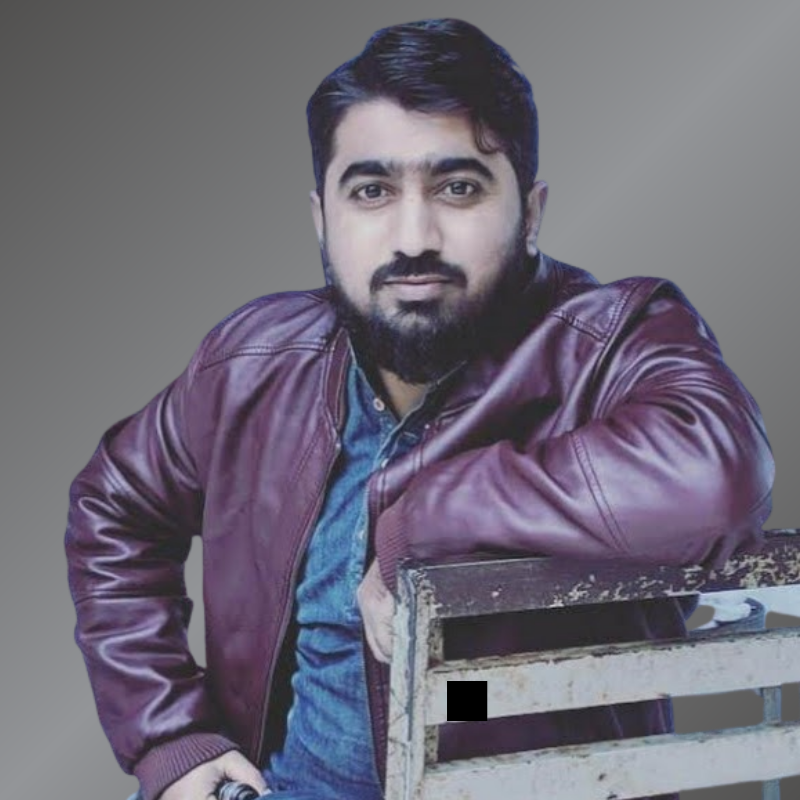
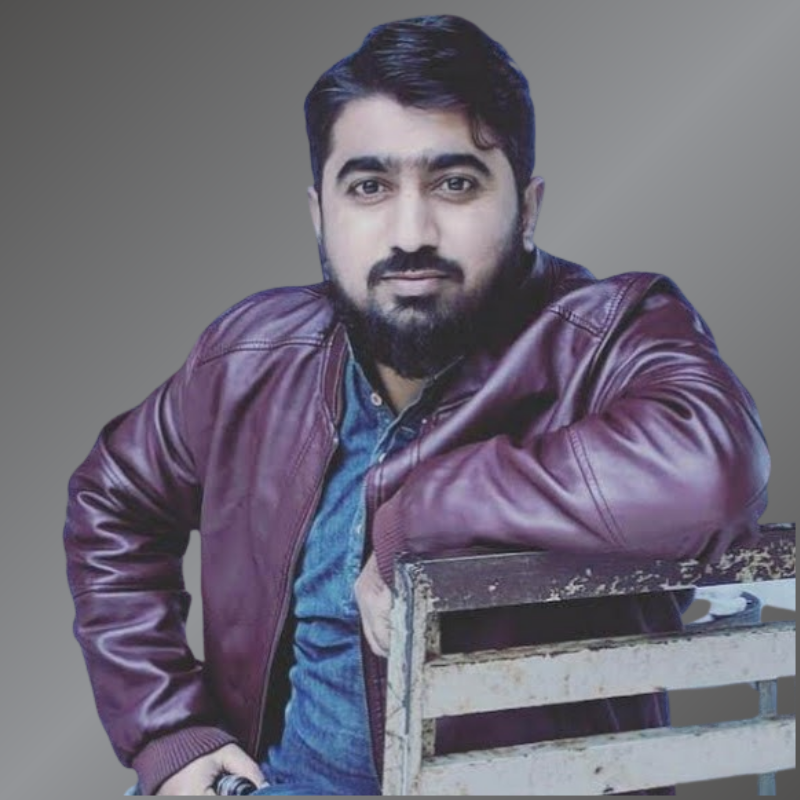
First commit

Changed region(s): [[0.0625, 0.0, 1.0, 1.0], [0.2188, 0.6562, 0.25, 0.7188], [0.25, 0.625, 0.2812, 0.6562]]

diff --git a/index.html b/index.html
@@ -353,7 +353,7 @@
 
           <div class="col-lg-4 col-md-6" data-aos="fade-up" data-aos-delay="300">
             <div class="member">
-              <div class="pic"><img src="assets/img/team/team-3.jpg" class="img-fluid" alt=""></div>
+              <div class="pic"><img src="assets/img/team/team-3.png" class="img-fluid" alt="Muhammad Javed Rafique"></div>
               <div class="member-info">
                 <h4>Muhammad Javed Rafique</h4>
                 <span>Mobile App Manager</span>
